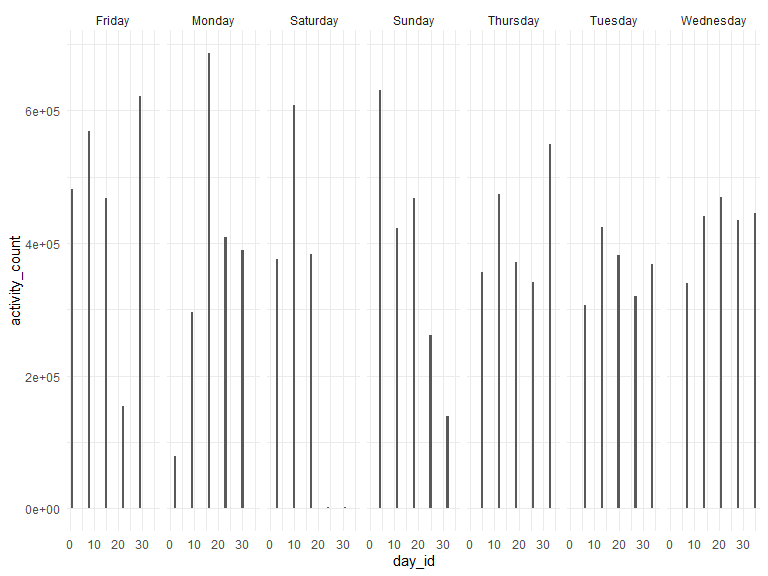
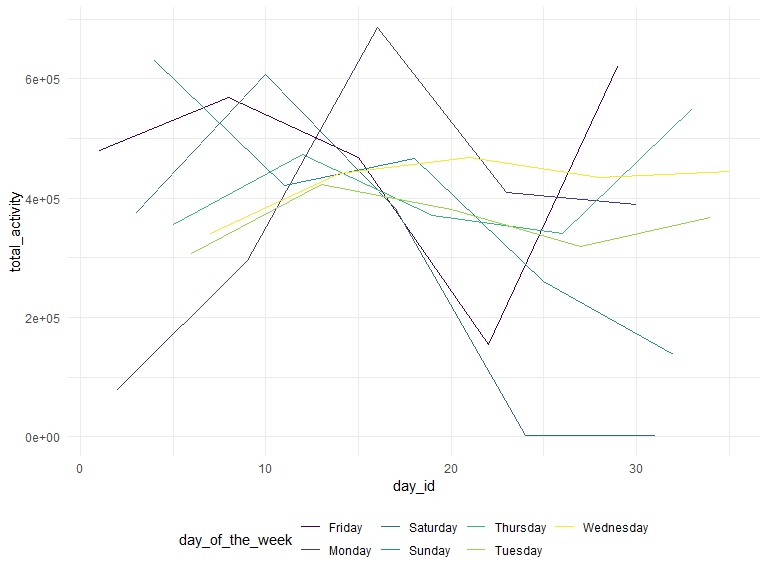
"fixed" the graphs for the last problem. I think this graph represents the data better.

diff --git a/P8105_HW_03_nj2208_mkdn_code.md b/P8105_HW_03_nj2208_mkdn_code.md
@@ -277,7 +277,8 @@ activity\_count.
 
 ``` r
 activity_day=accel_mod %>% 
-  group_by(day_id,day_of_the_week) %>% 
+  separate(activity_num,into=c("activity","minute"),sep = "_") %>% 
+  group_by(day_id,day_of_the_week,week,weekday_vs_weekend) %>% 
   summarize(
     total_activity=sum(activity_count)
   )
@@ -285,60 +286,74 @@ activity_day %>%
  knitr::kable(digits = 1)
 ```
 
-| day\_id | day\_of\_the\_week | total\_activity |
-| ------: | :----------------- | --------------: |
-|       1 | Friday             |        480542.6 |
-|       2 | Monday             |         78828.1 |
-|       3 | Saturday           |        376254.0 |
-|       4 | Sunday             |        631105.0 |
-|       5 | Thursday           |        355923.6 |
-|       6 | Tuesday            |        307094.2 |
-|       7 | Wednesday          |        340115.0 |
-|       8 | Friday             |        568839.0 |
-|       9 | Monday             |        295431.0 |
-|      10 | Saturday           |        607175.0 |
-|      11 | Sunday             |        422018.0 |
-|      12 | Thursday           |        474048.0 |
-|      13 | Tuesday            |        423245.0 |
-|      14 | Wednesday          |        440962.0 |
-|      15 | Friday             |        467420.0 |
-|      16 | Monday             |        685910.0 |
-|      17 | Saturday           |        382928.0 |
-|      18 | Sunday             |        467052.0 |
-|      19 | Thursday           |        371230.0 |
-|      20 | Tuesday            |        381507.0 |
-|      21 | Wednesday          |        468869.0 |
-|      22 | Friday             |        154049.0 |
-|      23 | Monday             |        409450.0 |
-|      24 | Saturday           |          1440.0 |
-|      25 | Sunday             |        260617.0 |
-|      26 | Thursday           |        340291.0 |
-|      27 | Tuesday            |        319568.0 |
-|      28 | Wednesday          |        434460.0 |
-|      29 | Friday             |        620860.0 |
-|      30 | Monday             |        389080.0 |
-|      31 | Saturday           |          1440.0 |
-|      32 | Sunday             |        138421.0 |
-|      33 | Thursday           |        549658.0 |
-|      34 | Tuesday            |        367824.0 |
-|      35 | Wednesday          |        445366.0 |
+| day\_id | day\_of\_the\_week | week | weekday\_vs\_weekend | total\_activity |
+| ------: | :----------------- | ---: | :------------------- | --------------: |
+|       1 | Friday             |    1 | Weekday              |        480542.6 |
+|       2 | Monday             |    1 | Weekday              |         78828.1 |
+|       3 | Saturday           |    1 | Weekend              |        376254.0 |
+|       4 | Sunday             |    1 | Weekend              |        631105.0 |
+|       5 | Thursday           |    1 | Weekday              |        355923.6 |
+|       6 | Tuesday            |    1 | Weekday              |        307094.2 |
+|       7 | Wednesday          |    1 | Weekday              |        340115.0 |
+|       8 | Friday             |    2 | Weekday              |        568839.0 |
+|       9 | Monday             |    2 | Weekday              |        295431.0 |
+|      10 | Saturday           |    2 | Weekend              |        607175.0 |
+|      11 | Sunday             |    2 | Weekend              |        422018.0 |
+|      12 | Thursday           |    2 | Weekday              |        474048.0 |
+|      13 | Tuesday            |    2 | Weekday              |        423245.0 |
+|      14 | Wednesday          |    2 | Weekday              |        440962.0 |
+|      15 | Friday             |    3 | Weekday              |        467420.0 |
+|      16 | Monday             |    3 | Weekday              |        685910.0 |
+|      17 | Saturday           |    3 | Weekend              |        382928.0 |
+|      18 | Sunday             |    3 | Weekend              |        467052.0 |
+|      19 | Thursday           |    3 | Weekday              |        371230.0 |
+|      20 | Tuesday            |    3 | Weekday              |        381507.0 |
+|      21 | Wednesday          |    3 | Weekday              |        468869.0 |
+|      22 | Friday             |    4 | Weekday              |        154049.0 |
+|      23 | Monday             |    4 | Weekday              |        409450.0 |
+|      24 | Saturday           |    4 | Weekend              |          1440.0 |
+|      25 | Sunday             |    4 | Weekend              |        260617.0 |
+|      26 | Thursday           |    4 | Weekday              |        340291.0 |
+|      27 | Tuesday            |    4 | Weekday              |        319568.0 |
+|      28 | Wednesday          |    4 | Weekday              |        434460.0 |
+|      29 | Friday             |    5 | Weekday              |        620860.0 |
+|      30 | Monday             |    5 | Weekday              |        389080.0 |
+|      31 | Saturday           |    5 | Weekend              |          1440.0 |
+|      32 | Sunday             |    5 | Weekend              |        138421.0 |
+|      33 | Thursday           |    5 | Weekday              |        549658.0 |
+|      34 | Tuesday            |    5 | Weekday              |        367824.0 |
+|      35 | Wednesday          |    5 | Weekday              |        445366.0 |
 
 There are 2 saturdays where there is practically no activity by the man
 under observation.
 
 ``` r
-act_by_day=accel_mod %>% 
-  group_by(day_id)
+act_by_day=accel_mod %>%  
+  separate(activity_num,into=c("activity","minute"),sep = "_") %>% 
+  mutate(minute=as.numeric(minute)) %>% 
+  group_by(day_id,day_of_the_week,week,weekday_vs_weekend)
 
-act_by_day %>% 
-  ggplot(aes(x=day_id, y=activity_count))+
-  geom_col()+
-  facet_grid(~day_of_the_week)
+activity_day %>% 
+  ggplot(aes(x=day_id, y=total_activity,color=day_of_the_week))+
+  geom_line()
 ```
 
 <img src="P8105_HW_03_nj2208_mkdn_code_files/figure-gfm/problem 3c-1.png" width="90%" />
 
-This person experiences the most fluctuation in his activity over the
-weekends and monday. His activity is fairly consistent across most of
-the other days of the week. He also has 2 saturdays of literally no
-activity when compared to the other days.
+``` r
+act_by_day %>% 
+  ggplot(aes(x=minute, y=activity_count,color=day_of_the_week))+
+  geom_line()+
+  scale_x_continuous()
+```
+
+<img src="P8105_HW_03_nj2208_mkdn_code_files/figure-gfm/problem 3c-2.png" width="90%" />
+
+I was not sure which graph we were supposed to make so I made 2. The
+graphs show that he has no activity during the first few hours after
+midnight. This makes sense as one would assume he is sleeping during
+this time. This person experiences the most fluctuation in his activity
+over the weekends but his activity is fairly consistent across most of
+the other days of the week. Wednesday is the most consistent and friday
+he spikes around 8pm until around 10pm. He also has 2 saturdays of
+literally no activity when compared to the other days.
